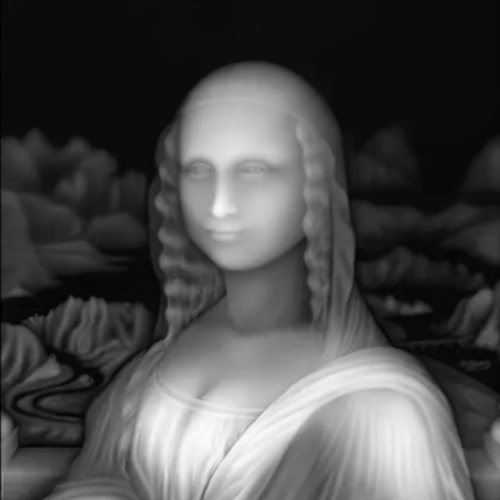
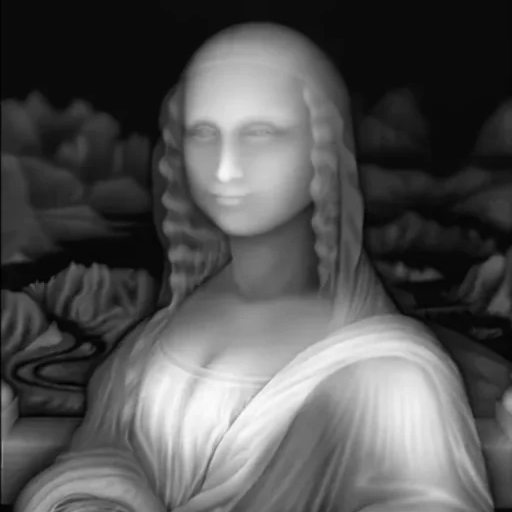
Use bitonic merge sort to improve performance 5x

diff --git a/src/main.c b/src/main.c
@@ -19,7 +19,7 @@ int main() {
     glfwWindowHint(GLFW_OPENGL_PROFILE, GLFW_OPENGL_CORE_PROFILE);
     glfwWindowHint(GLFW_RESIZABLE, GLFW_FALSE);
 
-    GLFWwindow* window = glfwCreateWindow(500, 500, "shader", NULL, NULL);
+    GLFWwindow* window = glfwCreateWindow(512, 512, "shader", NULL, NULL);
     glfwMakeContextCurrent(window);
 
     glfwSwapInterval(0);
@@ -68,16 +68,13 @@ int main() {
         glActiveTexture(GL_TEXTURE2 + i);
         glBindTexture(GL_TEXTURE_2D, fboTextures[i]);
         glTexParameteri(GL_TEXTURE_2D, GL_TEXTURE_MIN_FILTER, GL_LINEAR);
-        glTexImage2D(GL_TEXTURE_2D, 0, GL_RGBA, 500, 500, 0, GL_RED, GL_UNSIGNED_BYTE, NULL);
+        glTexImage2D(GL_TEXTURE_2D, 0, GL_RGBA16, 512, 512, 0, GL_RED, GL_UNSIGNED_BYTE, NULL);
 
         glBindFramebuffer(GL_FRAMEBUFFER, FBOs[i]);
         glFramebufferTexture2D(GL_FRAMEBUFFER, GL_COLOR_ATTACHMENT0, GL_TEXTURE_2D, fboTextures[i], 0);
     }
 
-    unsigned int SSBO;
-    glGenBuffers(1, &SSBO);
-    glBindBufferBase(GL_SHADER_STORAGE_BUFFER, 1, SSBO);
-    glBufferData(GL_SHADER_STORAGE_BUFFER, 4, NULL, GL_DYNAMIC_READ);
+    glBindImageTexture(0, fboTextures[0], 0, GL_FALSE, 0, GL_READ_WRITE, GL_RGBA16);
 
     while (!glfwWindowShouldClose(window)) {
         glfwPollEvents();
@@ -87,7 +84,7 @@ int main() {
 
         double x, y;
         glfwGetCursorPos(window, &x, &y);
-        float threshold = x / 500.0f;
+        float threshold = x / 512.0f;
 
         glBindFramebuffer(GL_FRAMEBUFFER, FBOs[0]);
         glUseProgram(lumaProgram);
@@ -95,24 +92,25 @@ int main() {
 
         glUseProgram(computeProgram);
         glUniform1f(0, threshold);
-        glDispatchCompute(500, 1, 1);
-        glMemoryBarrier(GL_BUFFER_UPDATE_BARRIER_BIT);
-
-        int *map = glMapBuffer(GL_SHADER_STORAGE_BUFFER, GL_READ_WRITE);
-        int max = *map;
-        *map = 0;
-        glUnmapBuffer(GL_SHADER_STORAGE_BUFFER);
+        glDispatchCompute(512, 1, 1);
+        glMemoryBarrier(GL_SHADER_IMAGE_ACCESS_BARRIER_BIT);
 
         glUseProgram(sortingProgram);
-        for (int k = 0; k < max; ++k) {
-            if (k == max - 1) glBindFramebuffer(GL_FRAMEBUFFER, 0);
-            else glBindFramebuffer(GL_FRAMEBUFFER, FBOs[1 - (k % 2)]);
+        int alternating = 0;
+        for (int k = 2; k <= 512; k *= 2) {
+            for (int j = k / 2; j > 0; j /= 2) {
+                if (k == 512 && j == 1) glBindFramebuffer(GL_FRAMEBUFFER, 0);
+                else glBindFramebuffer(GL_FRAMEBUFFER, FBOs[1 - alternating]);
 
-            glUniform1i(0, 2 + (k % 2));
-            glUniform1i(1, 1 + k);
-            glUniform1f(2, threshold);
+                glUniform1i(0, 2 + alternating);
+                glUniform1f(1, threshold);
+                glUniform1i(2, k);
+                glUniform1i(3, j);
 
-            glDrawArrays(GL_TRIANGLE_STRIP, 0, 4);
+                glDrawArrays(GL_TRIANGLE_STRIP, 0, 4);
+
+                alternating ^= 1;
+            }
         }
 
         glfwSwapBuffers(window);
